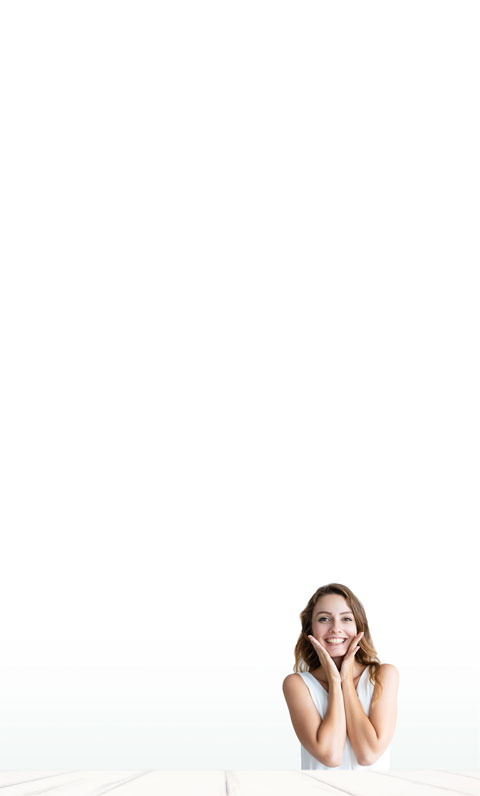
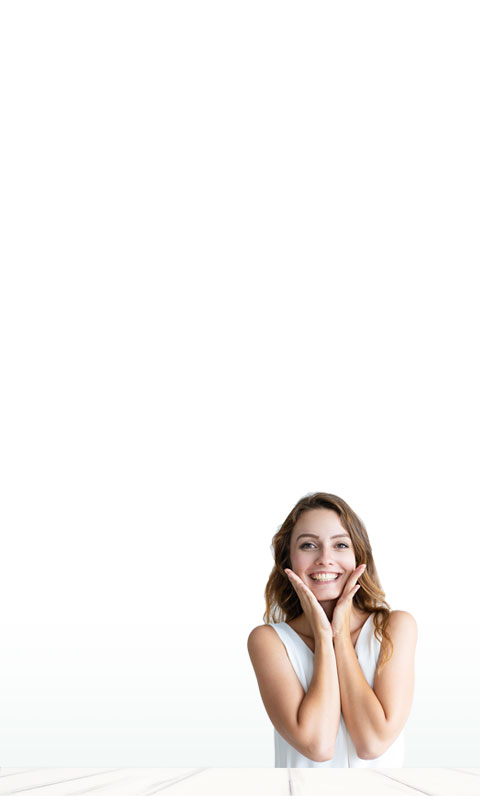
derm правки

diff --git a/derm/css/style.css b/derm/css/style.css
@@ -2318,6 +2318,7 @@ body[data-aos-easing=ease-in-out-quart] [data-aos] {
 
 .commits__name {
   margin-top: 30px;
+  margin-bottom: 10px;
   font-size: 18px;
   font-weight: 700;
   color: #1273be;
@@ -3872,7 +3873,7 @@ body[data-aos-easing=ease-in-out-quart] [data-aos] {
     width: 100%;
     height: 100%;
     content: '';
-    background-color: rgba(0, 0, 0, 0.5);
+    background-color: rgba(0, 0, 0, 0.2);
     -webkit-transition: .3s background-color;
     -o-transition: .3s background-color;
     transition: .3s background-color;
@@ -3995,7 +3996,7 @@ body[data-aos-easing=ease-in-out-quart] [data-aos] {
     bottom: -20px;
     left: 50%;
     max-width: 120px;
-    margin-left: -25px;
+    margin-left: -60px;
     -webkit-transform: translateX(-50%);
     -ms-transform: translateX(-50%);
     transform: translateX(-50%);
@@ -4105,7 +4106,10 @@ body[data-aos-easing=ease-in-out-quart] [data-aos] {
   .symptoms__name {
     bottom: 10px;
     left: 15px;
-    font-size: 18px;
+    font-family: "Montserrat", sans-serif;
+    font-size: 16px;
+    font-weight: 600;
+    line-height: 1.2;
     letter-spacing: 0;
   }
 }
